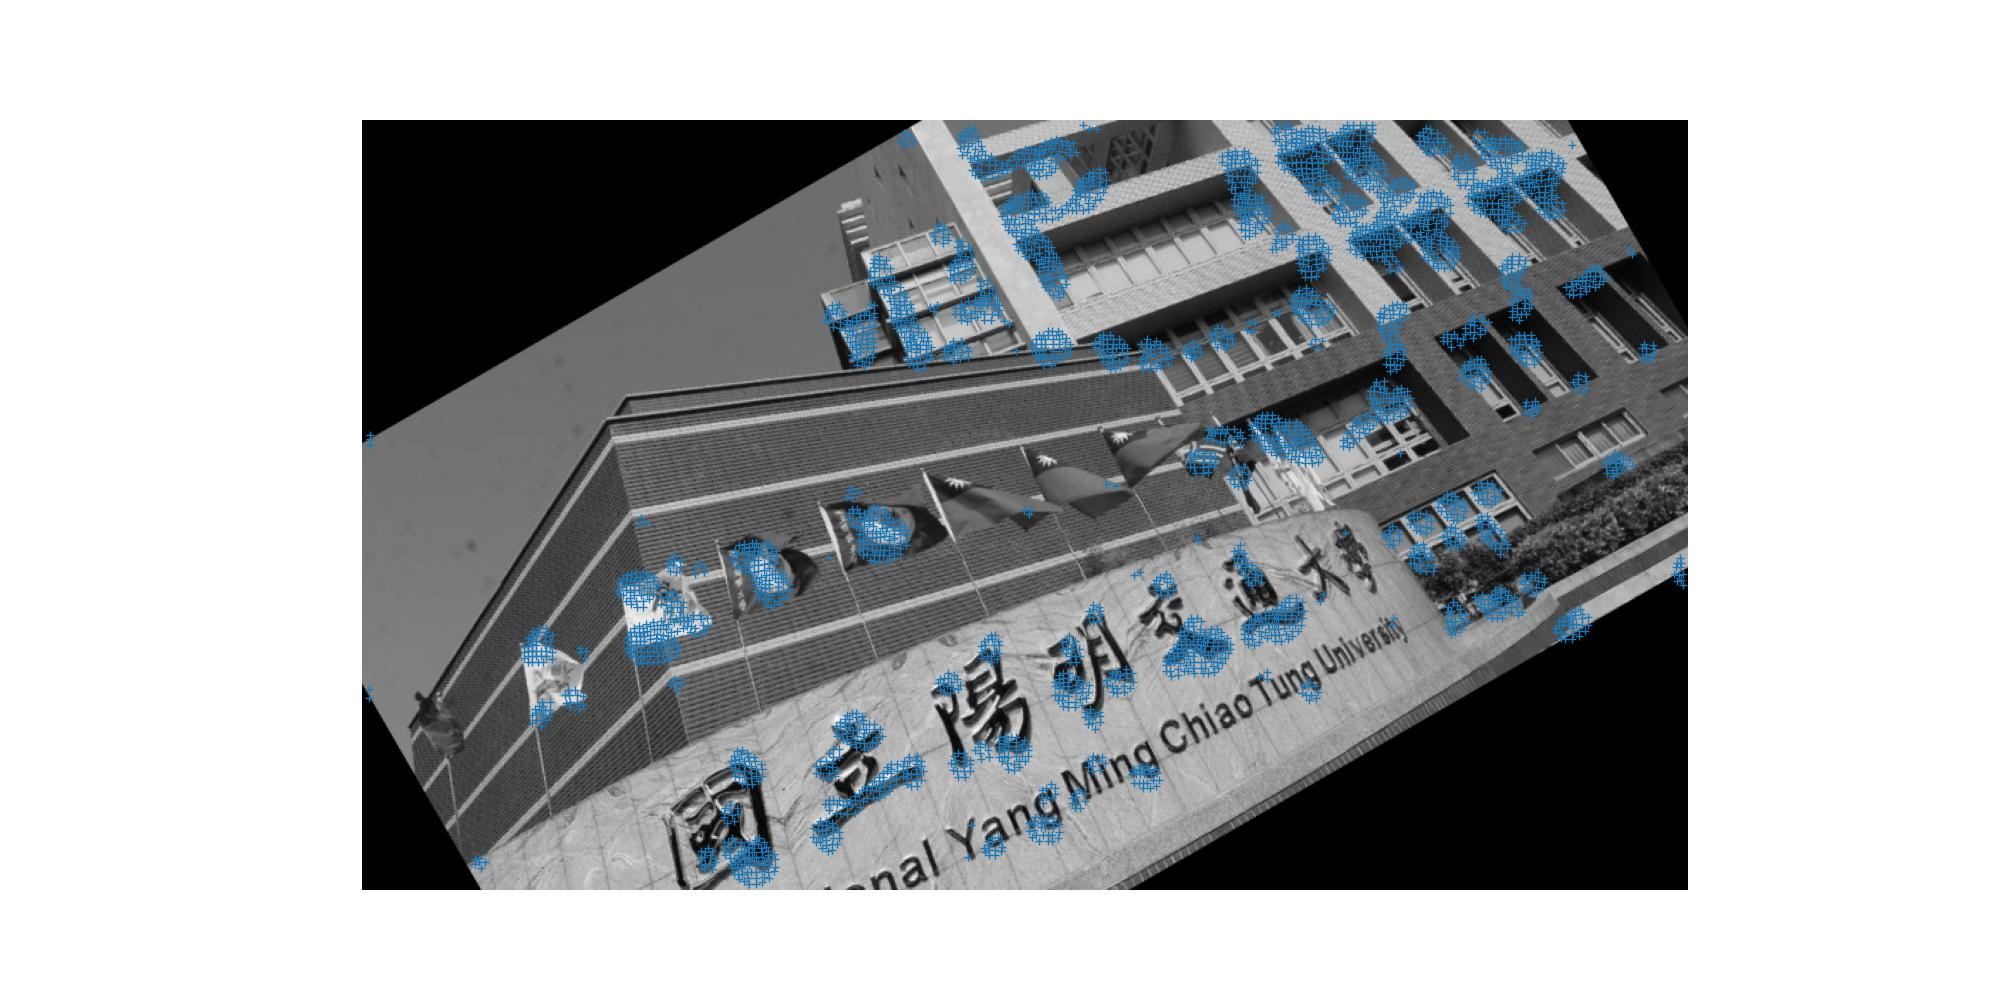
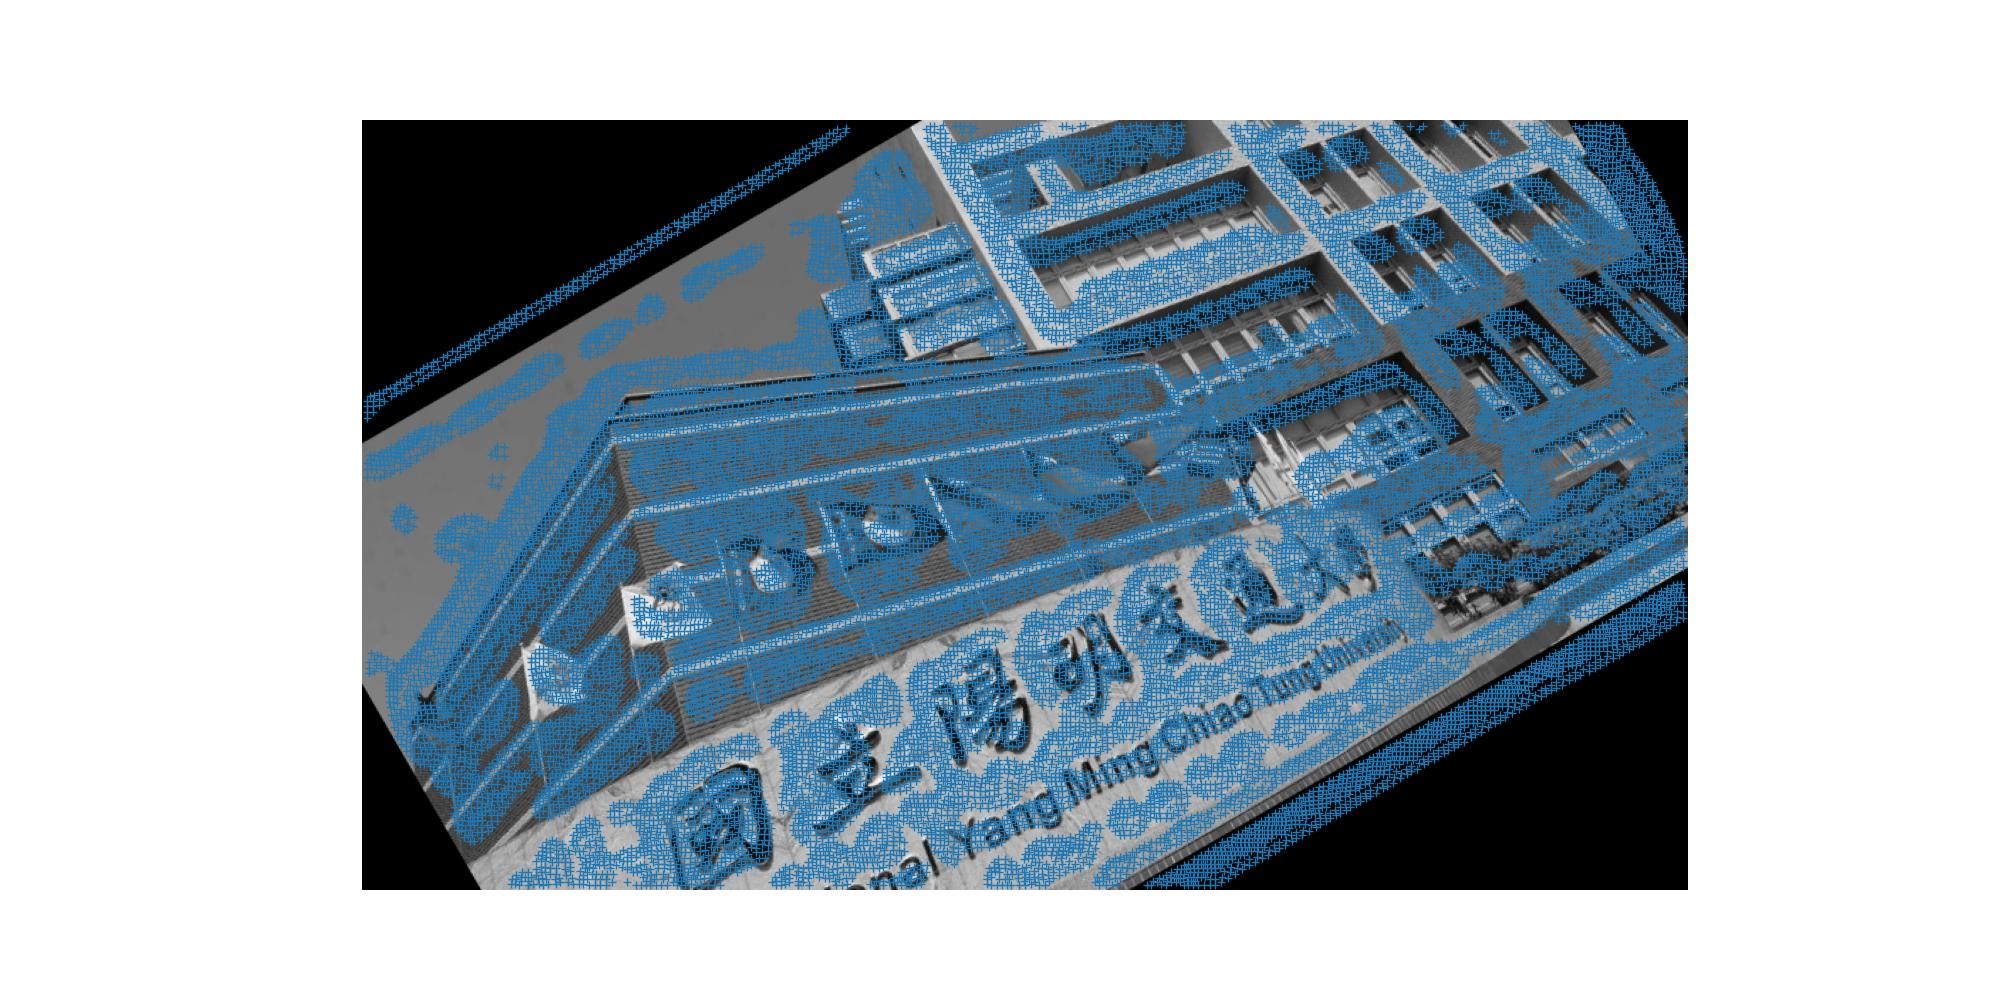
完成作業二

diff --git a/HW2_Harris_Corner_Detection/Harris_Corner_Detection.py b/HW2_Harris_Corner_Detection/Harris_Corner_Detection.py
@@ -11,12 +11,20 @@ def gaussian_smooth(size, sigma):
     img =  np.exp(-((x**2 + y**2) / (2.0*sigma**2))) * normal
     return img
 
-def sobel_edge_detection(im,sigma):
-    gradient_magnitude=np.zeros(im.shape)
-    filters.gaussian_filter(im,(sigma,sigma),(0,1),gradient_magnitude)
-    gradient_direction=np.zeros(im.shape)
-    filters.gaussian_filter(im,(sigma,sigma),(1,0),gradient_direction)
-    return  (gradient_magnitude, gradient_direction)
+import numpy as np
+from scipy import ndimage
+
+def sobel_edge_detection(im, sigma):
+    im_smoothed = ndimage.gaussian_filter(im, sigma)
+
+    gx = ndimage.sobel(im_smoothed, axis=1, mode='reflect')
+    gy = ndimage.sobel(im_smoothed, axis=0, mode='reflect')
+
+    gradient_magnitude = np.hypot(gx, gy)  # 梯度大小
+    gradient_direction = np.arctan2(gy, gx)  # 梯度方向
+
+    return gradient_magnitude, gradient_direction
+
 
 
 def structure_tensor(gradient_magnitude, gradient_direction, k, sigma):

diff --git a/HW2_Harris_Corner_Detection/README.md b/HW2_Harris_Corner_Detection/README.md
@@ -1,50 +1,149 @@
-# **Homework 2 Instructions**  
+# **Homework 2 - Harris Corner Detection**
 
-## **1. Required Libraries:**  
-The following libraries will be used in this assignment:  
-`os`, `cv2`, `numpy`, `matplotlib`, `scipy`  
+## **1. Introduction**
+This assignment implements the Harris Corner Detection algorithm with various image processing techniques such as Gaussian smoothing, Sobel edge detection, and Non-Maximum Suppression (NMS). The program is structured into multiple Python files and outputs results in a dedicated folder.
 
-**Notice:** `cv2` should only be used for image conversion (e.g., `BGR2RGB`, `BGR2GRAY`). It **must not** be used directly for the required code in this assignment (e.g., `cv2.Sobel`, `cv2.Laplacian`, `cv2.cornerHarris`).
+## **2. Required Libraries**
+The following libraries are required to execute the program:
 
-## **2. Python Files:**  
-- `hw2.py` (Main execution file)  
-- `Harris_Corner_Detection.py` (Function file)  
+```python
+import os
+import cv2
+import numpy as np
+import matplotlib.pyplot as plt
+from scipy.ndimage import filters, convolve
+```
 
-## **3. Running the Program:**  
-To execute the program and generate images, enter the following command:  
+**Note:**
+- `cv2` should **only** be used for image conversion (`BGR2RGB`, `BGR2GRAY`).
+- **Do not use** `cv2` functions like `cv2.Sobel`, `cv2.Laplacian`, or `cv2.cornerHarris`.
+
+## **3. Python Files**
+### **Main Execution File**
+- `hw2.py`: Runs all the required functions and saves the results.
+
+### **Function File**
+- `Harris_Corner_Detection.py`: Contains the functions for Harris Corner Detection and image transformations.
+
+## **4. Running the Program**
+Execute the following command to run the program and generate images:
+
 ```bash
 python hw2.py
-```  
+```
 
-## **4. Functions Included:**  
-- `gaussian_smooth`  
-- `sobel_edge_detection`  
-- `structure_tensor`  
-- `NMS` (Non-Maximum Suppression)  
-- `rotate`  
+## **5. Implemented Functions**
 
-## **5. Contents of the `results` Folder:**  
-The `results` directory contains five subfolders with the following outputs:  
+### **1. Gaussian Smoothing**
+```python
+def gaussian_smooth(size, sigma):
+    size = int(size) // 2
+    x, y = np.mgrid[-size:size+1, -size:size+1]
+    normal = 1 / (2.0 * np.pi * sigma**2)
+    img = np.exp(-((x**2 + y**2) / (2.0 * sigma**2))) * normal
+    return img
+```
+- Applies Gaussian filtering using the given kernel size and standard deviation (`sigma`).
 
-### **(1) `Gaussian smooth results`**  
-Contains **2 images**:  
-- **Gaussian smooth results:** \( \sigma = 5 \), kernel size = 5  
-- **Gaussian smooth results:** \( \sigma = 5 \), kernel size = 10  
+### **2. Sobel Edge Detection**
+```python
+def sobel_edge_detection(im, sigma):
+    im_smoothed = filters.gaussian_filter(im, sigma)
+    gx = filters.sobel(im_smoothed, axis=1, mode='reflect')
+    gy = filters.sobel(im_smoothed, axis=0, mode='reflect')
+    gradient_magnitude = np.hypot(gx, gy)
+    gradient_direction = np.arctan2(gy, gx)
+    return gradient_magnitude, gradient_direction
+```
+- Computes the gradient magnitude and direction using Sobel operators.
 
-### **(2) `Sobel edge detection results`**  
-Contains **4 images**:  
-- **Magnitude of gradient** (Gaussian kernel size = 5 and 10) → **2 images**  
-- **Direction of gradient** (Gaussian kernel size = 5 and 10) → **2 images**  
+### **3. Structure Tensor Computation**
+```python
+def structure_tensor(gradient_magnitude, gradient_direction, k, sigma):
+    Ixx = filters.gaussian_filter(gradient_magnitude**2, sigma)
+    Ixy = filters.gaussian_filter(gradient_magnitude * gradient_direction, sigma)
+    Iyy = filters.gaussian_filter(gradient_direction**2, sigma)
+    det = (Ixx * Iyy) - (Ixy ** 2)
+    trace = Ixx + Iyy
+    return det / (trace + 1e-12)
+```
+- Computes the structure tensor matrix and Harris response.
 
-### **(3) `Structure tensor + NMS results`**  
-Contains **2 images**:  
-- Window size = **3×3**  
-- Window size = **30×30**  
+### **4. Non-Maximum Suppression (NMS)**
+```python
+def NMS(harrisim, window_size, threshold):
+    conner_threshold = harrisim.max() * threshold
+    harrisim_t = (harrisim > conner_threshold) * 1
+    coords = np.array(harrisim_t.nonzero()).T
+    candidate_values = [harrisim[c[0], c[1]] for c in coords]
+    index = np.argsort(candidate_values)
+    allowed_locations = np.zeros(harrisim.shape)
+    allowed_locations[window_size:-window_size, window_size:-window_size] = 1
+    filtered_coords = []
+    for i in index:
+        if allowed_locations[coords[i, 0], coords[i, 1]] == 1:
+            filtered_coords.append(coords[i])
+            allowed_locations[(coords[i, 0]-window_size):(coords[i, 0]+window_size),
+                              (coords[i, 1]-window_size):(coords[i, 1]+window_size)] = 0
+    return filtered_coords
+```
+- Suppresses weak corners to keep only the strongest ones.
 
-### **(4) `Final results of rotating`**  
-Contains **1 image**:  
-- **Final result after rotating** the original image by **30°**  
+### **5. Image Rotation**
+```python
+def rotate(image, angle):
+    (h, w) = image.shape[:2]
+    center = (w / 2, h / 2)
+    M = cv2.getRotationMatrix2D(center, angle, scale=1.0)
+    rotated = cv2.warpAffine(image, M, (w, h))
+    return rotated
+```
+- Rotates the image by a specified angle.
 
-### **(5) `Final results of scaling`**  
-Contains **1 image**:  
-- **Final result after scaling** the original image to **0.5×**  
+## **6. Output Results**
+The `results` folder contains five subdirectories with generated images:
+
+### **1. Gaussian Smooth Results**
+- `gaussian_smooth_of_sigma_and_kernal_size_5.jpg`
+- `gaussian_smooth_of_sigma_and_kernal_size_10.jpg`
+
+### **2. Sobel Edge Detection Results**
+- `magnitude_of_gradient_kernel_size_5.jpg`
+- `magnitude_of_gradient_kernel_size_10.jpg`
+- `direction_of_gradient_kernel_size_5.jpg`
+- `direction_of_gradient_kernel_size_10.jpg`
+
+### **3. Structure Tensor + NMS Results**
+- `NMS_window_size_3.jpg`
+- `NMS_window_size_30.jpg`
+
+### **4. Final Results of Rotation**
+- `Rotate_30.jpg`
+
+### **5. Final Results of Scaling**
+- `Scaling.jpg`
+
+## **7. Example Image Results**
+Below are sample output images:
+
+### **Gaussian Smooth Results**
+![Gaussian Smooth](results/Gaussian%20smooth%20results/gaussian_smooth_of_sigma_and_kernal_size_5.jpg)
+
+### **Sobel Edge Detection - Magnitude**
+![Sobel Magnitude](results/Sobel%20edge%20detection%20results/magnitude_of_gradient_kernel_size_5.jpg)
+
+### **Sobel Edge Detection - Direction**
+![Sobel Direction](results/Sobel%20edge%20detection%20results/direction_of_gradient_kernel_size_5.jpg)
+
+### **Structure Tensor + NMS Results**
+![NMS](results/Structure%20tensor%20+%20NMS%20results/NMS_window_size_3.jpg)
+
+### **Final Rotation (30 Degrees)**
+![Rotation](results/Final%20results%20of%20rotating/Rotate_30.jpg)
+
+### **Final Scaling (0.5x)**
+![Scaling](results/Final%20results%20of%20scaling/Scaling.jpg)
+
+## **8. Conclusion**
+This assignment successfully implements Harris Corner Detection with Gaussian smoothing, Sobel edge detection, structure tensor computation, Non-Maximum Suppression, image rotation, and scaling. The results demonstrate how different transformations impact corner detection and image processing.
+
